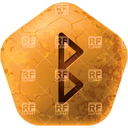
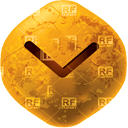
[UI] Added rune stone images and minor update to other

diff --git a/angelring-app/angelring/static/js/show_spell.js b/angelring-app/angelring/static/js/show_spell.js
@@ -3,7 +3,6 @@
 function reset_spell(){
     $.get('/spell/reset_spell');
     console.log("#Reset spell.");
-    animate_out_spell();
 }
 
 function sp_spell(spell){
@@ -19,6 +18,10 @@ function sp_spell(spell){
         $('#item-1').show();
     }
     if ( spell == "a"){
+        $('#item-1-info').show();
+        $('#item-1-video').hide();
+    }
+    if ( spell == "b"){
         $('#item-1-info').hide();
         $('#item-1-video').show();
     }
@@ -29,7 +32,7 @@ function show_current_spell(spell){
     out.empty();
 
     for (var i = 0; i < spell.length; i++) {
-      var html = '<img id="spell_image" src="/img/spell/' + spell[i] +  '.png">';
+      var html = '<img id="spell_image" src="/img/stone/' + spell[i] +  '.png">';
       out.append(html);
     }
 }
@@ -57,14 +60,20 @@ function animate_in_spell(data){
 
 }
 
-function animate_out_spell(){
+function animate_out_spell(data){
 
     var div = $("#stones")
     div.animate({margin: '50px'}, "slow");
     div.animate({fontSize: '3em'}, "slow");
-    $('#stone1').attr('src','img/stone/4-l.png');
-    $('#stone2').attr('src','img/stone/4-l.png');
-    $('#stone3').attr('src','img/stone/4-l.png');
+    if (data.length >= 1){
+        $("#stone1").attr('src','/img/stone/' + data[0] + '-l.png');
+    }
+    if (data.length >= 2){
+        $("#stone2").attr('src','/img/stone/' + data[1] + '-l.png');
+    }
+    if (data.length == 3){
+        $("#stone3").attr('src','/img/stone/' + data[2] + '-l.png');
+    }
     $("#stones").fadeOut("slow");
 
 
@@ -92,14 +101,17 @@ $(document).ready(function(){
             switch (data){
               case "a":
                 sp_spell(data);
+                animate_out_spell(data);
                 reset_spell();
                 break;
               case "b":
                 sp_spell(data);
+                animate_out_spell(data);
                 reset_spell();
                 break;
               case "c":
                 sp_spell(data);
+                animate_out_spell(data);
                 reset_spell();
                 break;
             }
@@ -109,11 +121,13 @@ $(document).ready(function(){
         if (data.length == 3){
             // do spell
             sp_spell(data);
+            animate_out_spell(data);
             reset_spell();
         }
 
         // if spell length is more than 3
         if (data.length > 3){
+            animate_out_spell(data);
             reset_spell();
         }
 

diff --git a/angelring-app/angelring/static/js/massage_spell.js b/angelring-app/angelring/static/js/massage_spell.js
@@ -51,7 +51,7 @@ function show_current_spell(spell){
     out.empty();
 
     for (var i = 0; i < spell.length; i++) {
-      var html = '<img id="spell_image" src="/img/spell/' + spell[i] +  '.png">';
+      var html = '<img id="spell_image" src="/img/stone/' + spell[i] +  '.png">';
       out.append(html);
     }
 }

diff --git a/angelring-app/angelring/spellcontrollers.py b/angelring-app/angelring/spellcontrollers.py
@@ -90,6 +90,12 @@ def uniq_spell(special):
     if special == "B":
         open_url("http://localhost:5000/massage")
 
+    # for harry potter
+    if special == "H":
+        open_url("http://localhost:5000/img/hp.png")
+    if special == "P":
+        open_url("http://localhost:5000/img/hp2.jpg")
+
 
     if special == "W":
         reset_spell()
